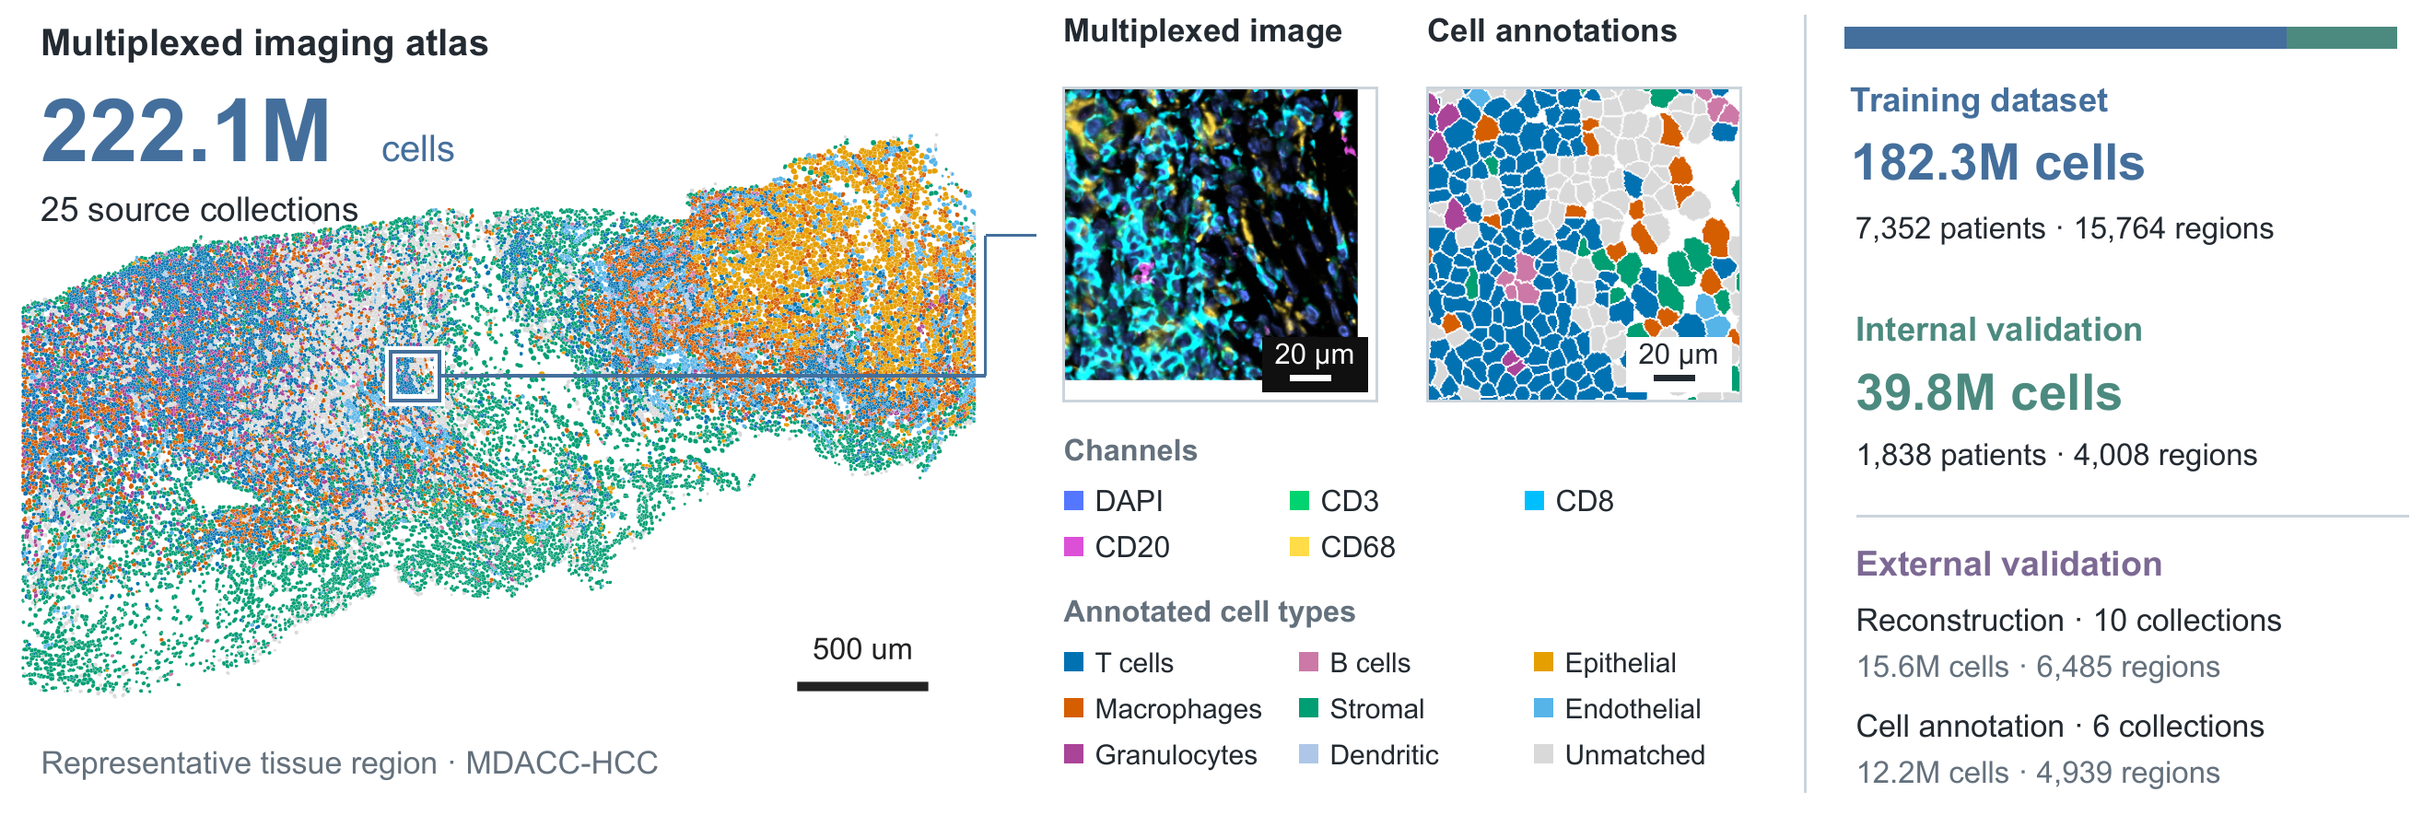
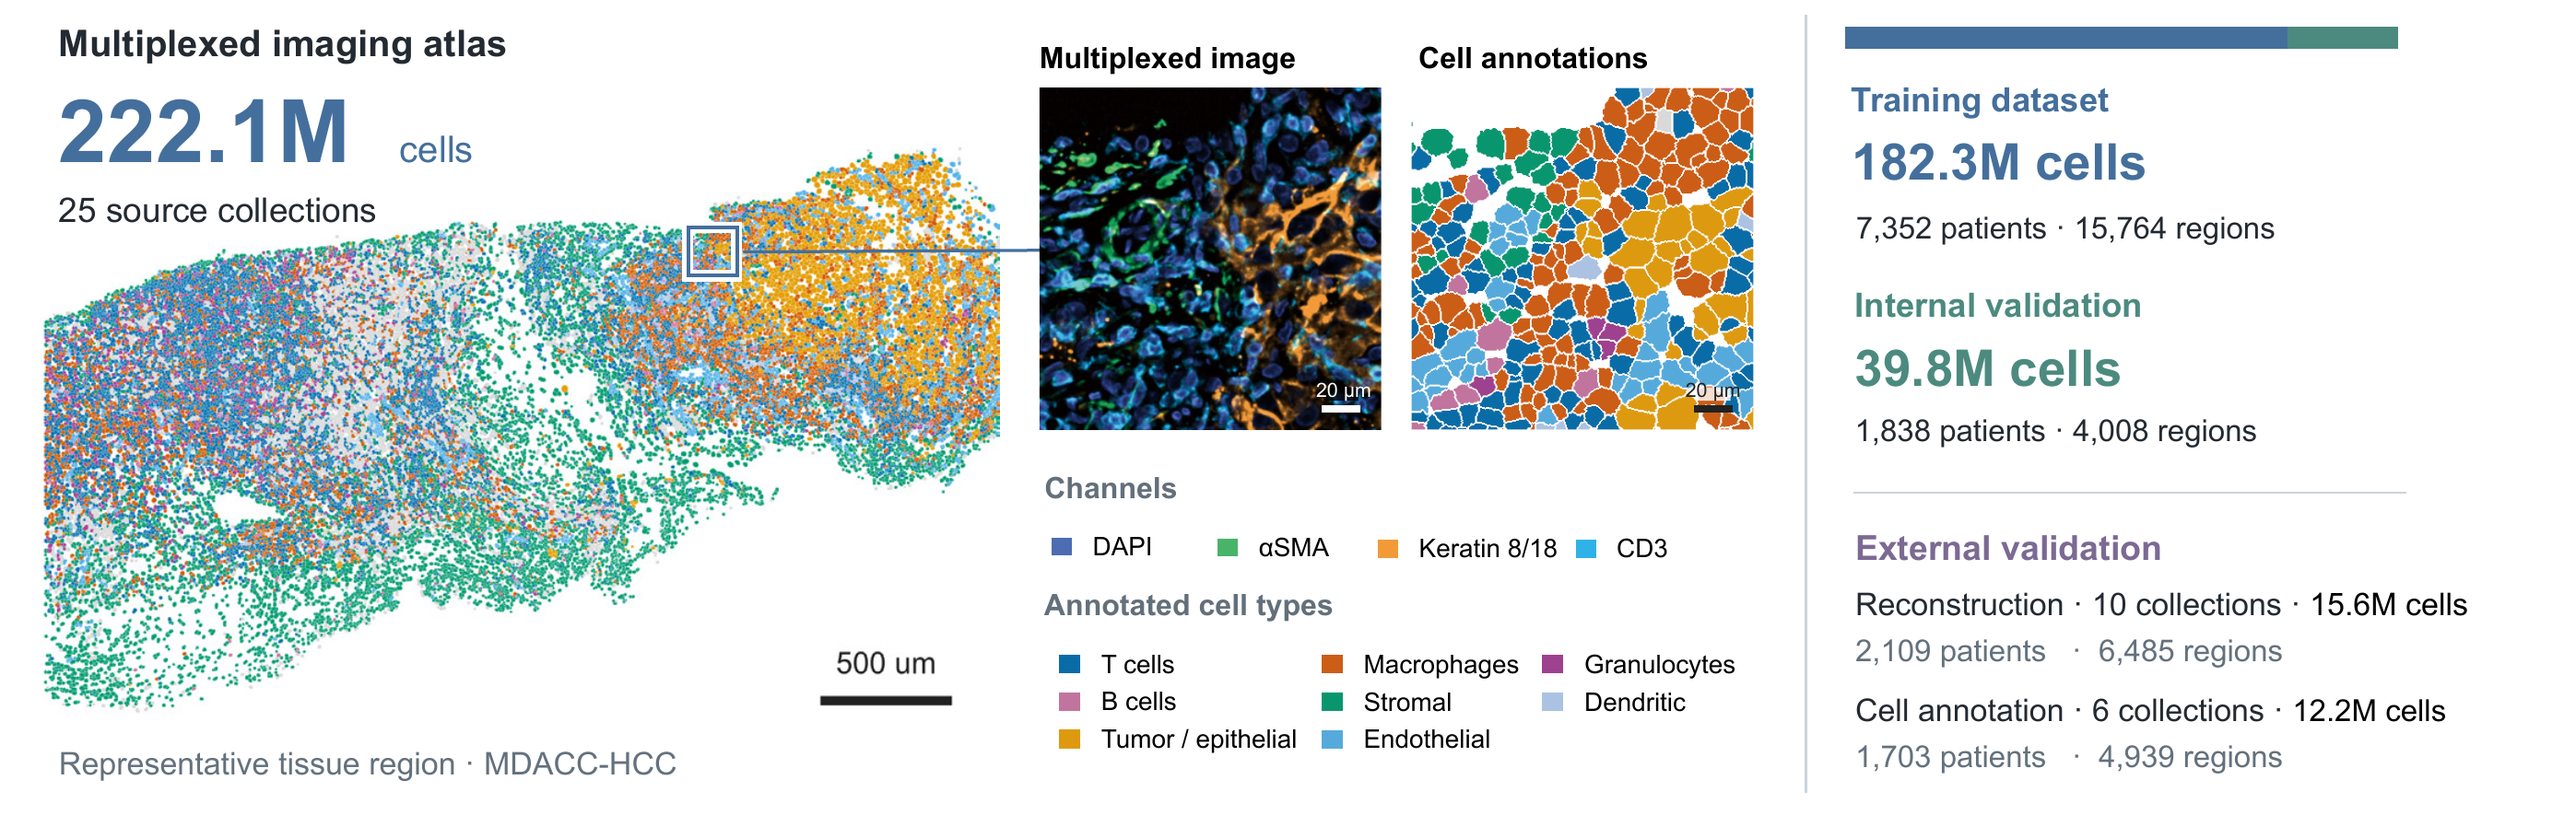
Correct README overview figure

diff --git a/README.md b/README.md
@@ -1,7 +1,5 @@
 # SOBER
 
-**Molecular–spatial representation learning from multiplexed protein imaging.**
-
 **SOBER (Spatial Omics Biomarker Encoder)** is a cell-centered transformer that jointly represents protein expression and local tissue context. It combines intensity-weighted marker embeddings with center-relative positional encodings to represent each cell together with its spatial neighbors. Masked protein reconstruction predicts hidden center-cell intensities from visible markers and surrounding cells.
 
 ## Overview
